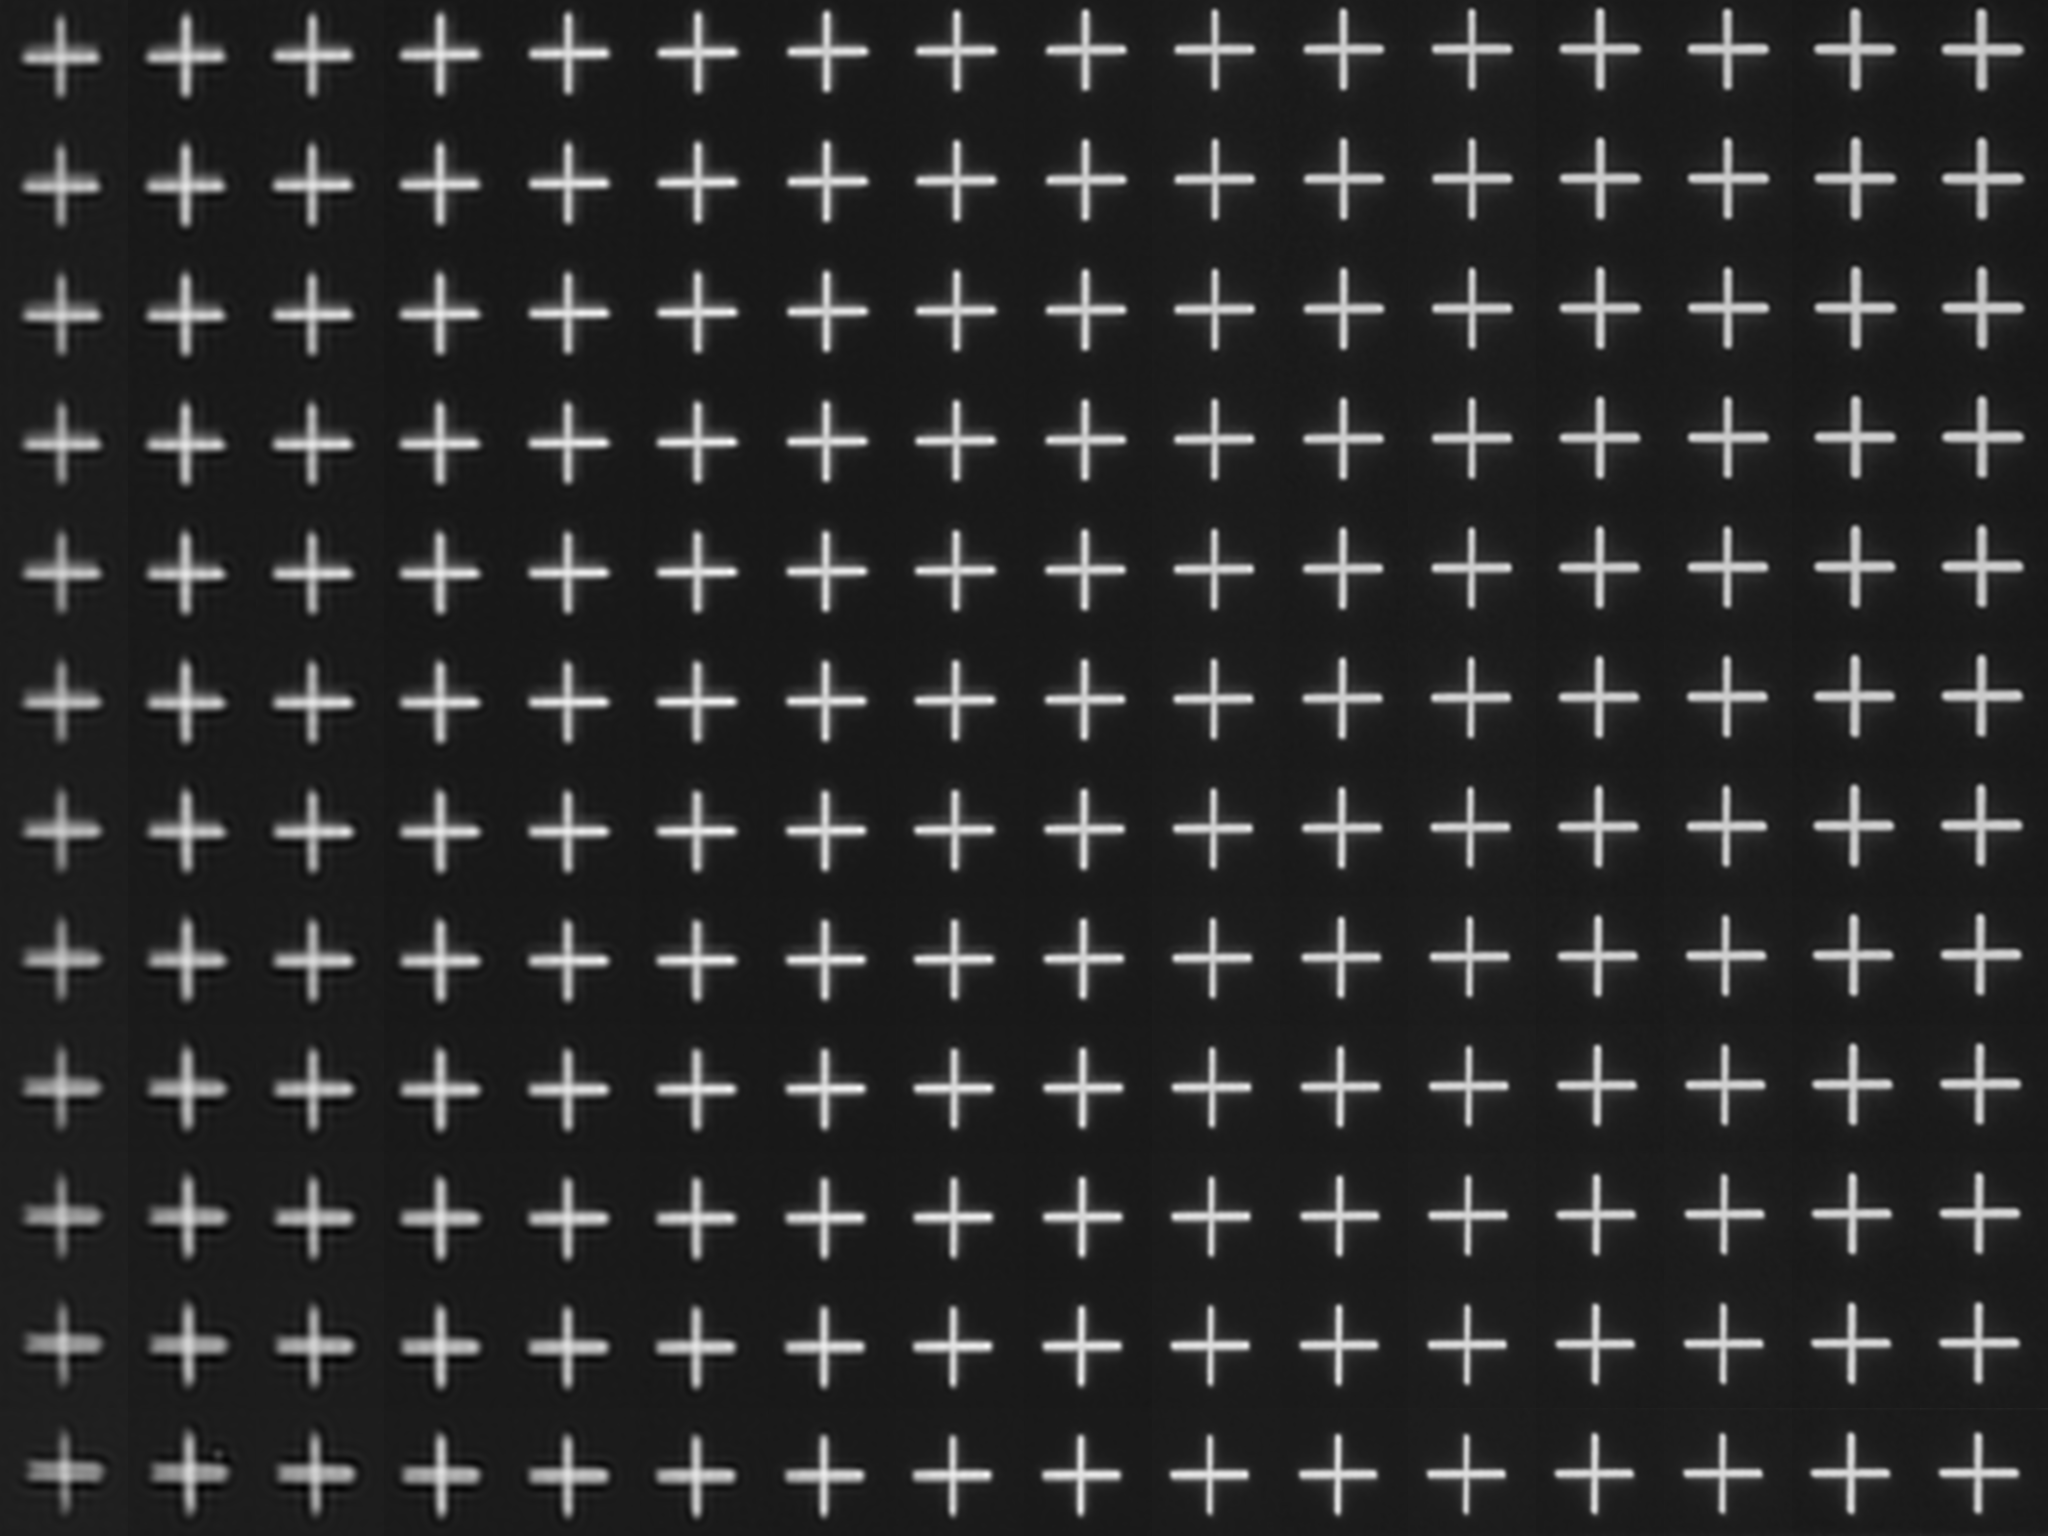
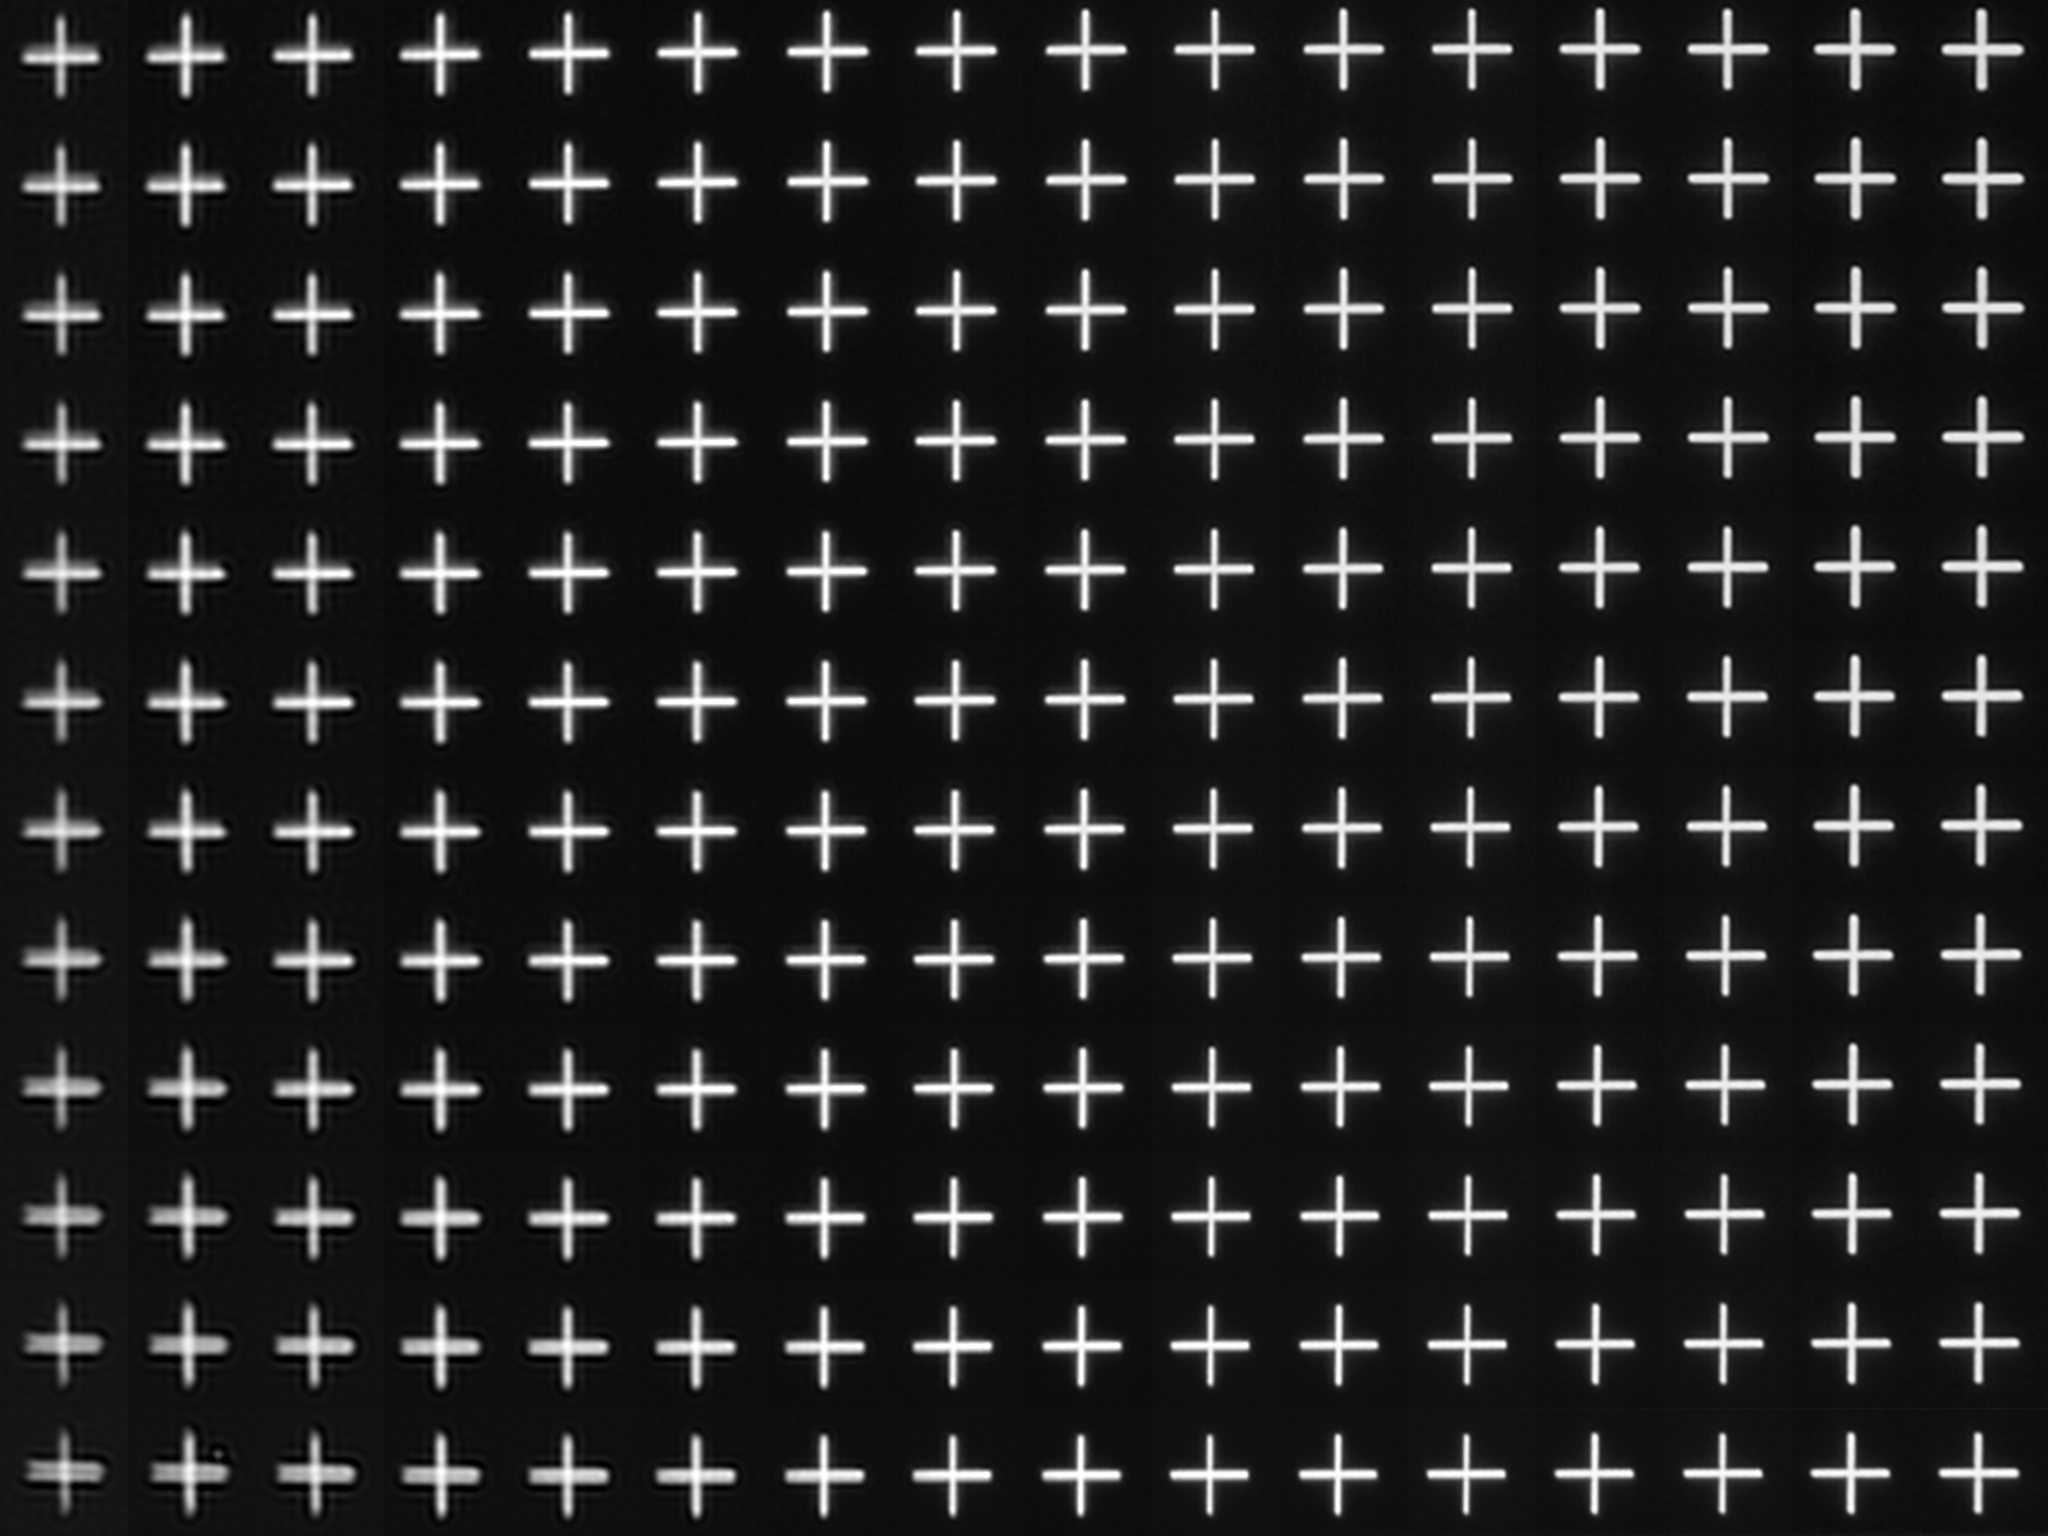
Added clipping to deblurred output

diff --git a/Q2.py b/Q2.py
@@ -110,9 +110,10 @@ for i in range(PSF.shape[0]):
     for j in range(PSF.shape[1]):
         f = im[i*block_size:(i+1)*block_size, j*block_size:(j+1)*block_size]
         h = gauss_impulse_response(f, PSF[i, j])
-        f_deblurred = restoration.wiener(f, h, 1, clip=False)
+        f_deblurred = restoration.wiener(f, h, 0.5, clip=False)
         deblurred[i*block_size:(i+1)*block_size,
                   j*block_size:(j+1)*block_size] = f_deblurred
 
 # write it to disk
-misc.imsave('T2/deblurred_image.png', deblurred)
+deblurred = np.clip(deblurred, 0, 255)
+misc.imsave('T2/deblurred_image.png', deblurred.astype('uint8'))
